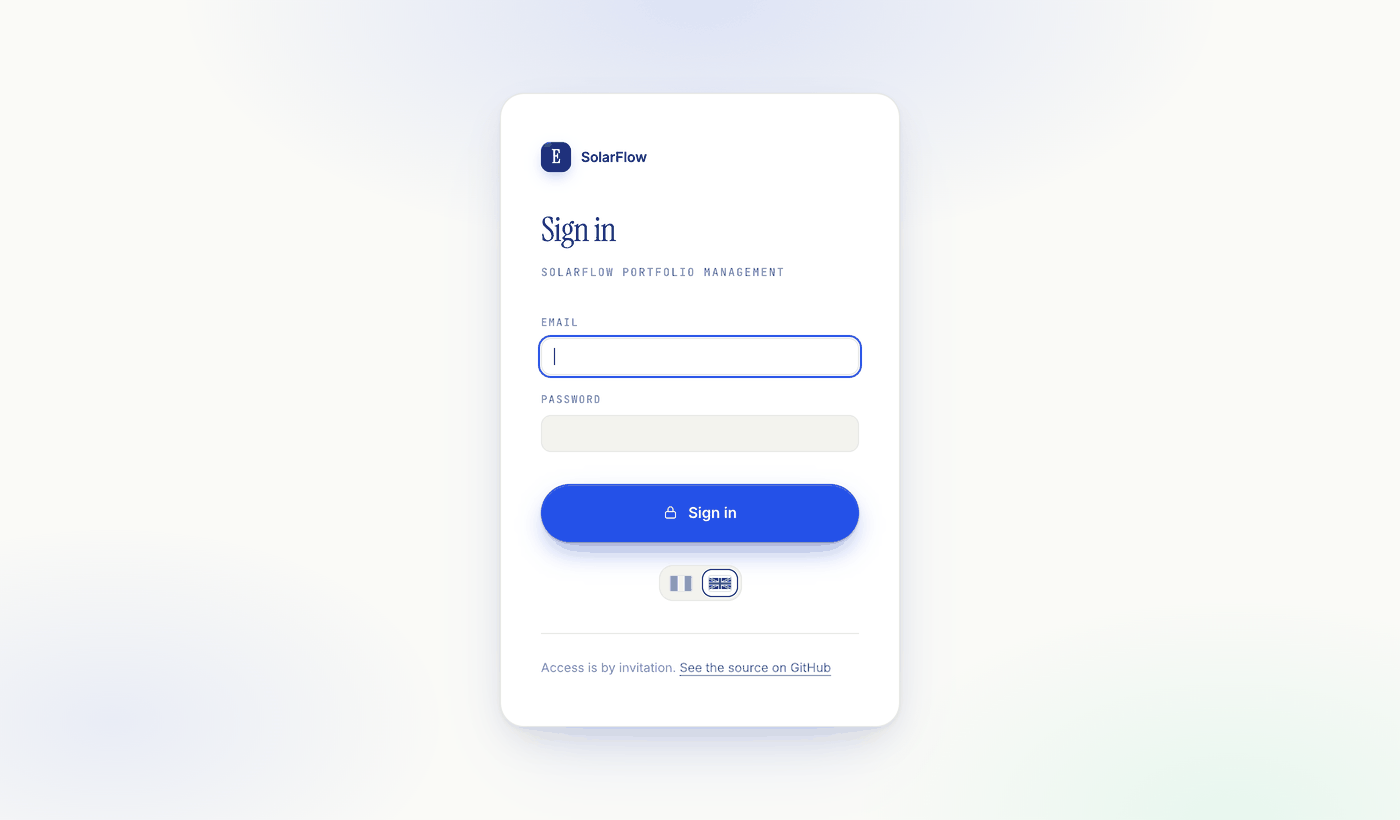
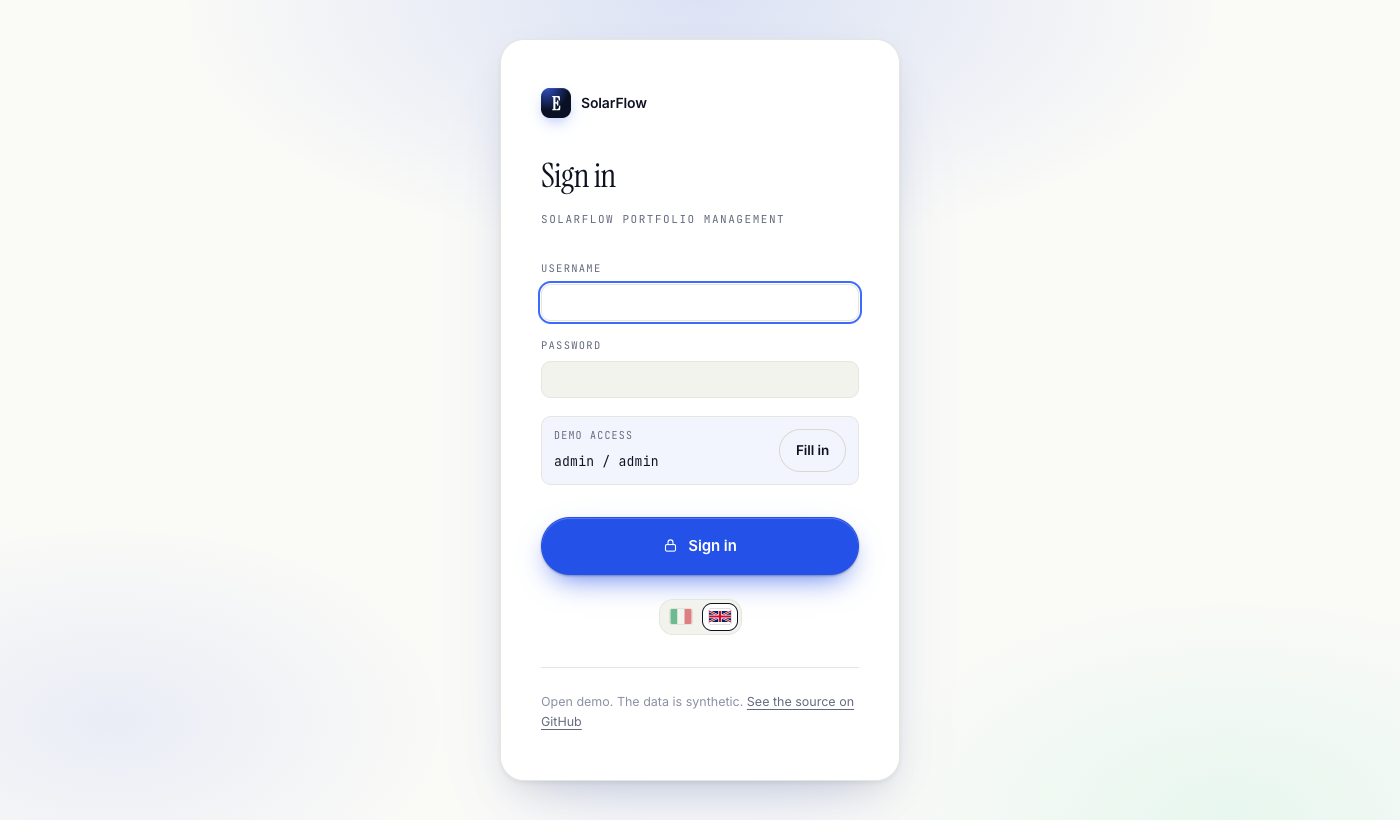
Open the demo with admin / admin, and show the credentials on the gate
Mirrors the portfolio copy: generic username, a hint box with a Fill in button, Demo user in the app bar, and a README that says the demo is open rather than protected.

diff --git a/app.js b/app.js
@@ -1127,26 +1127,30 @@
      security. Anyone who opens DevTools can get past it. Real
      protection needs a server or a hosted auth service.
 
-     Neither the email nor the password is in this file. What is
-     stored is one SHA-256 digest of  email + newline + password.
+     What the code compares is one SHA-256 digest of
+     username + newline + password, never a stored password.
      To change the credentials, regenerate it with:
 
        node -e 'console.log(require("crypto").createHash("sha256")
-         .update("NEW_EMAIL\nNEW_PASSWORD").digest("hex"))'
+         .update("NEW_USER\nNEW_PASSWORD").digest("hex"))'
+
+     This demo is open to anyone, so the credentials below are
+     published on purpose and the gate offers to fill them in.
      ============================================================ */
 
   var AUTH_KEY = 'solarflow.auth';
-  var MAIL_KEY = 'solarflow.user';
-  var USER_NAME = 'Stefano Gallo';
[1 lines of base64/hex data omitted]
+  var USER_KEY = 'solarflow.user';
+  var USER_NAME = 'Demo user';
+  var DEMO_USER = 'admin', DEMO_PASS = 'admin';
[1 lines of base64/hex data omitted]
   var MAX_TRIES = 5, LOCKOUT_S = 30;
 
   function session(key) { try { return sessionStorage.getItem(key); } catch (e) { return null; } }
   function remember(key, v) { try { sessionStorage.setItem(key, v); } catch (e) { /* blocked */ } }
   function forget(key) { try { sessionStorage.removeItem(key); } catch (e) { /* blocked */ } }
 
-  function digest(email, password) {
-    var data = new TextEncoder().encode(email.trim().toLowerCase() + '\n' + password);
+  function digest(user, password) {
+    var data = new TextEncoder().encode(user.trim().toLowerCase() + '\n' + password);
     return crypto.subtle.digest('SHA-256', data).then(function (buf) {
       return [].map.call(new Uint8Array(buf), function (b) {
         return b.toString(16).padStart(2, '0');
@@ -1159,58 +1163,72 @@
       .map(function (w) { return w[0].toUpperCase(); }).join('');
   }
 
-  function showUser(email) {
-    $('#sfUserName').textContent = USER_NAME;
-    $('#sfUserMail').textContent = email || '';
-    $('#sfAvatar').textContent = initials(USER_NAME);
+  function showUser(user) {
+    $('#sfUserName').textContent = T(USER_NAME);
+    $('#sfUserId').textContent = user || '';
+    $('#sfAvatar').textContent = initials(T(USER_NAME));
   }
 
-  function unlock(email) {
+  function unlock(user) {
     remember(AUTH_KEY, '1');
-    if (email) remember(MAIL_KEY, email);
+    if (user) remember(USER_KEY, user);
     document.documentElement.classList.remove('sf-locked');
-    showUser(email || session(MAIL_KEY) || '');
+    showUser(user || session(USER_KEY) || '');
     initApp();
   }
 
   function lock() {
     forget(AUTH_KEY);
-    forget(MAIL_KEY);
+    forget(USER_KEY);
     document.documentElement.classList.add('sf-locked');
     var form = $('#sfGateForm');
     if (form) form.reset();
     gateError('');
-    var f = $('#gEmail');
+    var f = $('#gUser');
     if (f) f.focus();
   }
 
   function gateError(msg) {
     var el = $('#gError');
     if (!el) return;
-    el.textContent = msg;
+    el.textContent = msg ? T(msg) : '';
     el.hidden = !msg;
   }
 
   function initGate() {
     var form = $('#sfGateForm'), btn = $('#gSubmit'), label = $('#gSubmitLabel');
-    var signOut = $('#sfSignOut');
+    var signOut = $('#sfSignOut'), fill = $('#gFill');
     var tries = 0, cooling = false;
 
     if (signOut) signOut.addEventListener('click', lock);
+
+    /* the demo is open, so the gate hands over its own credentials */
+    if (fill) fill.addEventListener('click', function () {
+      $('#gUser').value = DEMO_USER;
+      $('#gPass').value = DEMO_PASS;
+      gateError('');
+      btn.focus();
+    });
+
+    /* the name in the bar is translated, so repaint it on a switch */
+    document.addEventListener('i18n:change', function () {
+      if (session(AUTH_KEY) === '1') showUser(session(USER_KEY) || '');
+    });
+
     if (!form) return;
 
     function coolDown() {
       cooling = true;
       btn.disabled = true;
       var left = LOCKOUT_S;
-      label.textContent = 'Try again in ' + left + 's';
+      label.textContent = T('Try again in') + ' ' + left + 's';
       var t = setInterval(function () {
         left -= 1;
-        if (left > 0) { label.textContent = 'Try again in ' + left + 's'; return; }
+        if (left > 0) { label.textContent = T('Try again in') + ' ' + left + 's'; return; }
         clearInterval(t);
         cooling = false; tries = 0;
         btn.disabled = false;
-        label.textContent = 'Sign in';
+        label.textContent = T('Sign in');
         gateError('');
       }, 1000);
     }
@@ -1219,8 +1237,8 @@
       e.preventDefault();
       if (cooling) return;
 
-      var email = $('#gEmail').value, password = $('#gPass').value;
-      if (!email.trim() || !password) { gateError('Please fill in both fields.'); return; }
+      var user = $('#gUser').value, password = $('#gPass').value;
+      if (!user.trim() || !password) { gateError('Please fill in both fields.'); return; }
 
       if (!(window.crypto && crypto.subtle)) {
         gateError('This demo needs https or localhost to sign you in.');
@@ -1228,20 +1246,20 @@
       }
 
       btn.disabled = true;
-      label.textContent = 'Checking…';
+      label.textContent = T('Checking…');
 
-      digest(email, password).then(function (hex) {
+      digest(user, password).then(function (hex) {
         btn.disabled = false;
-        label.textContent = 'Sign in';
-        if (hex === EXPECTED) { gateError(''); unlock(email.trim().toLowerCase()); return; }
+        label.textContent = T('Sign in');
+        if (hex === EXPECTED) { gateError(''); unlock(user.trim().toLowerCase()); return; }
         tries += 1;
         $('#gPass').value = '';
         if (tries >= MAX_TRIES) { gateError('Too many attempts.'); coolDown(); return; }
-        gateError('That email or password is not right.');
+        gateError('That username or password is not right.');
         $('#gPass').focus();
       }).catch(function () {
         btn.disabled = false;
-        label.textContent = 'Sign in';
+        label.textContent = T('Sign in');
         gateError('Something went wrong. Please try again.');
       });
     });
@@ -1249,11 +1267,11 @@
     /* Wired first, decided second: a sign-out after a reload must
        still leave a working form. */
     if (session(AUTH_KEY) === '1') {
-      unlock(session(MAIL_KEY) || '');
+      unlock(session(USER_KEY) || '');
       return;
     }
     document.documentElement.classList.add('sf-locked');
-    $('#gEmail').focus();
+    $('#gUser').focus();
   }
 
   if (document.readyState === 'loading') document.addEventListener('DOMContentLoaded', initGate);

diff --git a/index.html b/index.html
@@ -50,10 +50,10 @@
     </a>
     <span class="sf-tag">SolarFlow demo</span>
     <div class="sf-user" id="sfUser">
-      <span class="sf-avatar" id="sfAvatar" aria-hidden="true">SG</span>
+      <span class="sf-avatar" id="sfAvatar" aria-hidden="true">DU</span>
       <span class="sf-user-text">
         <span class="sf-user-name" id="sfUserName"></span>
-        <span class="sf-user-mail" id="sfUserMail"></span>
+        <span class="sf-user-id" id="sfUserId"></span>
       </span>
     </div>
     <div data-lang class="langsw--bar"></div>
@@ -242,8 +242,8 @@
     <p class="sf-gate-sub">SolarFlow portfolio management</p>
 
     <div class="sf-field">
-      <label for="gEmail">Email</label>
-      <input id="gEmail" type="email" autocomplete="username" spellcheck="false" required>
+      <label for="gUser">Username</label>
+      <input id="gUser" type="text" autocomplete="username" spellcheck="false" required>
     </div>
     <div class="sf-field">
       <label for="gPass">Password</label>
@@ -252,6 +252,14 @@
 
     <p class="sf-gate-error" id="gError" role="alert" hidden></p>
 
+    <div class="sf-gate-hint">
+      <div>
+        <span class="sf-gate-hint-t">Demo access</span>
+        <code>admin / admin</code>
+      </div>
+      <button class="btn btn--outline btn--sm" id="gFill" type="button">Fill in</button>
+    </div>
+
     <button class="btn btn--primary sf-gate-submit" id="gSubmit" type="submit">
       <svg class="i"><use href="#i-lock"/></svg> <span id="gSubmitLabel">Sign in</span>
     </button>
@@ -259,7 +267,7 @@
     <div data-lang class="langsw--gate"></div>
 
     <p class="sf-gate-foot">
-      Access is by invitation.
+      Open demo. The data is synthetic.
       <a href="https://github.com/eziyoo/solarflow-agent">See the source on GitHub</a>
     </p>
   </form>

diff --git a/styles.css b/styles.css
@@ -399,6 +399,14 @@ html.sf-locked,html.sf-locked body{overflow:hidden}
   color:var(--sf-danger);background:var(--sf-danger-bg)}
 .sf-gate-error[hidden]{display:none}
 
+.sf-gate-hint{display:flex;align-items:center;justify-content:space-between;gap:var(--s-2);
+  margin-top:2px;padding:10px 12px;border-radius:var(--r-sm);
+  border:1px solid var(--line);background:rgba(36,81,232,.06)}
+.sf-gate-hint-t{display:block;font-family:var(--f-mono);font-size:10px;letter-spacing:.12em;
+  text-transform:uppercase;color:var(--txt-500);margin-bottom:3px}
+.sf-gate-hint code{font-family:var(--f-mono);font-size:13px;color:var(--txt-900);letter-spacing:.02em}
+.sf-gate-hint .btn{flex:none}
+
 .sf-gate-submit{width:100%;justify-content:center;margin-top:var(--s-2)}
 .sf-gate-submit[disabled]{opacity:.55;cursor:not-allowed}
 .sf-gate-submit[disabled]:hover{background:var(--cobalt-600);box-shadow:none}
@@ -417,13 +425,13 @@ html.sf-locked,html.sf-locked body{overflow:hidden}
   background:var(--cobalt-600);color:#fff;font-family:var(--f-mono);font-size:11px;letter-spacing:.04em}
 .sf-user-text{display:flex;flex-direction:column;line-height:1.25;min-width:0}
 .sf-user-name{font-size:13px;font-weight:600;letter-spacing:-.01em;color:var(--txt-900);white-space:nowrap}
-.sf-user-mail{font-family:var(--f-mono);font-size:10.5px;color:var(--txt-500);white-space:nowrap;
+.sf-user-id{font-family:var(--f-mono);font-size:10.5px;color:var(--txt-500);white-space:nowrap;
   overflow:hidden;text-overflow:ellipsis}
 .sf-signout{margin-left:0}
 .sf-bar .sf-user + .sf-signout{margin-left:var(--s-1)}
 
 @media(max-width:900px){
-  .sf-user-mail{display:none}
+  .sf-user-id{display:none}
   .sf-user-name{font-size:12.5px}
 }
 @media(max-width:620px){

diff --git a/i18n.js b/i18n.js
@@ -21,9 +21,13 @@
   var IT = {
     /* demo: gate and chrome */
     'Sign in': 'Accedi',
+    'Username': 'Nome utente',
+    'Demo access': 'Accesso demo',
+    'Fill in': 'Compila',
+    'Demo user': 'Utente demo',
+    'Open demo. The data is synthetic.': 'Demo aperta. I dati sono sintetici.',
     'SolarFlow portfolio management': 'Gestione del portafoglio SolarFlow',
     'Password': 'Password',
-    'Access is by invitation.': 'Accesso su invito.',
     'Back to the project': 'Torna al progetto',
     'See the source on GitHub': 'Vedi il codice su GitHub',
     'Source': 'Codice',
@@ -31,7 +35,8 @@
     'Sign out': 'Esci',
     'Checking…': 'Verifica in corso…',
     'Please fill in both fields.': 'Compila entrambi i campi.',
-    'That email or password is not right.': 'Email o password non corretti.',
+    'That username or password is not right.': 'Nome utente o password non corretti.',
+    'Try again in': 'Riprova tra',
     'Too many attempts.': 'Troppi tentativi.',
     'Something went wrong. Please try again.': 'Qualcosa è andato storto. Riprova.',
     'This demo needs https or localhost to sign you in.':
@@ -168,8 +173,7 @@
     'to the project': 'al progetto',
 
     'Skip to the dashboard': 'Vai alla dashboard',
-    'Language': 'Lingua',
-    'Email': 'Email'
+    'Language': 'Lingua'
   };
 
   /* Attribute values that also need translating. */

diff --git a/README.md b/README.md
@@ -84,19 +84,24 @@ Each one surfaces as an alert, and clicking an alert opens the plant it refers t
 ![Sign in](docs/sign-in.png)
 
 ```
-s.gallo@sunprime.it
-1234
+username: admin
+password: admin
 ```
 
-**This is a realistic gate, not security.** The check runs in the browser. The
-credentials are not in the source — what is stored is a single SHA-256 digest of
-`email + "\n" + password` — but anyone who opens DevTools can get past it. Real
-protection would need a server or a hosted auth service.
+The gate shows those credentials itself, with a **Fill in** button that types them
+for you, because this demo is meant to be opened by anyone.
 
-To change the credentials, regenerate the digest in `app.js`:
+**So it is a demonstration of a sign-in, not a barrier.** The check runs in the
+browser. What the code compares is a single SHA-256 digest of
+`username + "\n" + password`, never a stored password, but the credentials are
+public and anyone who opens DevTools can get past it anyway. Real protection would
+need a server or a hosted auth service.
+
+To change the credentials, regenerate the digest in `app.js` and update the hint in
+`index.html`:
 
 ```bash
-node -e 'console.log(require("crypto").createHash("sha256").update("NEW_EMAIL\nNEW_PASSWORD").digest("hex"))'
+node -e 'console.log(require("crypto").createHash("sha256").update("NEW_USER\nNEW_PASSWORD").digest("hex"))'
 ```
 
 The session lasts until the tab is closed.
